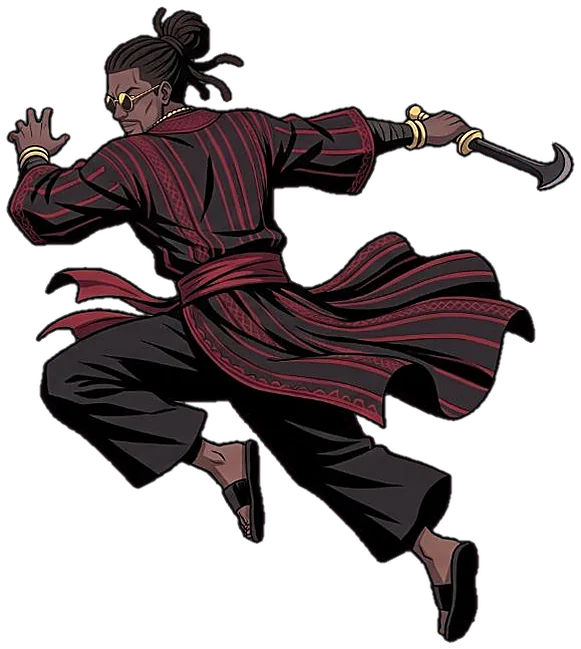
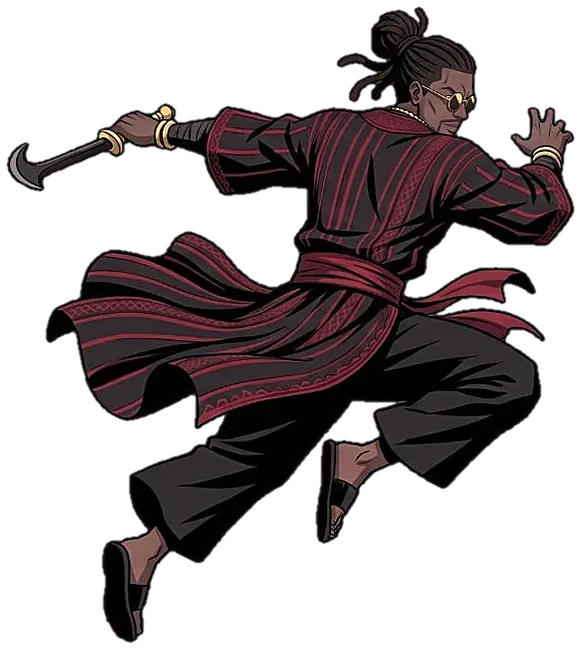
Agyekum: right-facing ult poses, code-tinted crimson slashes, heavier impacts; pose notes on credit budget
Claude-Session: https://claude.ai/code/session_01KCvu1msLSb5oPSxPwoexAA

diff --git a/squads/game.js b/squads/game.js
@@ -1,9 +1,9 @@
 // Gyeaman Squads: Akan squad battler, chapter 1.
 // Battles are turn based on a speed turn order (Dislyte style): every hero picks Basic, Skill (cooldown) or Ultimate (energy)
 // and a target; enemies show their next move. Big moves get impact frames, small ones stay quiet.
-import { KF } from './kf.js?v=20261022d';
-import { HEROES, MONS, STAGES, REGIONS, DIFF, RARITY, STARTERS, SKILL_MAX, skillCost, xpNeed, STAR_SHARDS, LOCKED_CHAPTERS, PULL_COST, PULL10_COST, PITY, PULL_RATES, CLASSES, GROWTH, SPELLS } from './data.js?v=20261022d';
-import { drawAdinkra, adinkraPath, adinkraSvg, ADINKRA } from './adinkra.js?v=20261022d';
+import { KF } from './kf.js?v=20261022e';
+import { HEROES, MONS, STAGES, REGIONS, DIFF, RARITY, STARTERS, SKILL_MAX, skillCost, xpNeed, STAR_SHARDS, LOCKED_CHAPTERS, PULL_COST, PULL10_COST, PITY, PULL_RATES, CLASSES, GROWTH, SPELLS } from './data.js?v=20261022e';
+import { drawAdinkra, adinkraPath, adinkraSvg, ADINKRA } from './adinkra.js?v=20261022e';
 
 const ROOT = /\/squads\/?$|\/squads\/index\.html$/.test(location.pathname) ? '../assets/' : 'assets/';
 const A = ROOT + 'sq/';
@@ -62,7 +62,7 @@ const SFX = {
 
 // ---------------- images ----------------
 const IM = {};
-const AV = '?v=20261022d';
+const AV = '?v=20261022e';
 // stale-build guard: phones keep old pages/modules around; if the deployed version.json is newer, reload once onto it
 (async function checkBuild() {
   const mine = AV.slice(3);
@@ -187,7 +187,7 @@ const SEQ = {
     bayi2: [{ p: 'bA_1', ms: 160, x: 0 }, { p: 'bB_3', ms: 380, x: .05, phantom: 1, ev: 'x' }, { p: 'bB_1', ms: 640, x: 0, ev: 'steal' }, { p: 'idle_0', ms: 120, x: 0 }],
     bayMist: [{ p: 'bA_1', ms: 180, x: 0 }, { p: 'bA_2', ms: 280, x: .05, phantom: 1, ev: 'mist' }, { p: 'bB_1', ms: 620, x: 0, ev: 'sip' }, { p: 'idle_0', ms: 120, x: 0 }],
     bayCurse: [{ p: 'bB_2', ms: 520, x: .03, ev: 'curse' }, { p: 'bB_1', ms: 520, x: 0, ev: 'sip' }, { p: 'idle_0', ms: 120, x: 0 }],
-    ult: [{ p: 'bult_1', ms: 620, x: 0, y: .3, ev: 'rise' }, { p: 'bult_2', ms: 170, x: .04, y: .38, phantom: 1, ev: 's' }, { p: 'bA_3', ms: 170, x: .06, y: .34, phantom: 1, ev: 's' }, { p: 'bult_2', ms: 170, x: .08, y: .38, phantom: 1, ev: 's' }, { p: 'bB_3', ms: 220, x: .1, y: .3, phantom: 1, ev: 's' },
+    ult: [{ p: 'bult_1', ms: 620, x: 0, y: .3, ev: 'rise' }, { p: 'bult_2', ms: 170, x: .04, y: .38, phantom: 1, ev: 's' }, { p: 'bB_3', ms: 170, x: .06, y: .34, phantom: 1, ev: 's' }, { p: 'bult_2', ms: 170, x: .08, y: .38, phantom: 1, ev: 's' }, { p: 'bB_3', ms: 220, x: .1, y: .3, phantom: 1, ev: 's' },
       { p: 'idle_3', ms: 200, x: .72, y: 0, phantom: 1, lines: 1 }, { p: 'bult_3', ms: 460, x: .82, ev: 'feast' }, { p: 'bB_1', ms: 900, x: .82, ev: 'drink' }],
   },
 
@@ -215,6 +215,12 @@ const PH_HUE = { sekan: 45, bayi: 350, kome: 40, owureku: 5, blay: 185, kuukua: 
 const SOFT_HURT = new Set(['gyakari', 'afrakoma']);
 const PH_COL = { kome: '#ffd23c', owureku: '#d0402a', sekan: '#efe6cf', bayi: '#d01c3c', blay: '#3d7cff', kuukua: '#ff1f35', obiri: '#ffc83c', gyakari: '#ffb02e', afrakoma: '#ff6a1f', dufie: '#b070ff' }; // afterimage tint per hero
 const TINT = document.createElement('canvas'), TG = TINT.getContext('2d');
+const TINTS = new Map();
+function tintImg(el, col) { // recolour an image keeping its light/dark structure and alpha (blue-black slash -> crimson-black)
+  const key = el.src + col; let c = TINTS.get(key); if (c) return c;
+  c = document.createElement('canvas'); c.width = el.naturalWidth; c.height = el.naturalHeight; const t = c.getContext('2d');
+  t.drawImage(el, 0, 0); t.globalCompositeOperation = 'color'; t.fillStyle = col; t.fillRect(0, 0, c.width, c.height);
+  t.globalCompositeOperation = 'destination-in'; t.drawImage(el, 0, 0); TINTS.set(key, c); return c; }
 function drawTinted(g, q, col, alpha) { // the pose as a flat silhouette in the hero colour, with a light inner core
   const bh = q.bh || q.u.h, S = Math.ceil(bh * 2.4); if (TINT.width !== S) { TINT.width = S; TINT.height = S; }
   TG.setTransform(1, 0, 0, 1, 0, 0); TG.clearRect(0, 0, S, S); TG.save(); TG.translate(S / 2, S * .78); if (q.rot) { TG.translate(0, -bh * .5); TG.rotate(q.rot); TG.translate(0, bh * .5); } drawKF(TG, q.u.id, q.p, bh); TG.restore();
@@ -423,30 +429,31 @@ CHOREO.sekan = {
       if (e === 'slam') { debris(x, y, 16, u.h * .14); shock(u, f, SEK, 1); slam(u, f, SEK, 1); if (f.alive) { hit(u, f, 1.6 * m, { color: SEK, big: 1 }); addSt(f, 'stun', 1); } } });
     await heavyRecover(u, f); },
 };
-const redSlash = (u, f, o = {}) => { const [hx, hy] = pos(u), [x] = pos(f), [ox] = kfOff(u); fx('sproj', o.ms || 520, { k: o.k ?? ((Math.random() * 4) | 0), x0: hx + ox + u.h * .45, x1: x + f.w * .2, y: hy - u.h * (o.yy ?? .55), s: u.h * (o.s ?? .75), hue: 140, glow: '#ff1f45', glow2: '#ffc0c8', flip: o.flip, rot: o.rot }); };
+const redSlash = (u, f, o = {}) => { const [hx, hy] = pos(u), [x] = pos(f), [ox] = kfOff(u); fx('sproj', o.ms || 520, { k: o.k ?? ((Math.random() * 4) | 0), x0: hx + ox + u.h * .45, x1: x + f.w * .2, y: hy - u.h * (o.yy ?? .55), s: u.h * (o.s ?? 1.0), tint: '#ff1030', glow: '#ff1f45', glow2: '#ff8090', flip: o.flip, rot: o.rot }); };
+const bayImpact = (u, f, big) => { const [x, y] = pos(f); hitStop(big ? 170 : 85); B.shake = big ? 22 : 11; fx('flash', big ? 560 : 360, { x, y: y - f.h * .5, r: f.h * (big ? 1.5 : .9), c: BLD, n: 12 }); debris(x, y, big ? 18 : 7, u.h * .12); if (big) shock(u, f, BLD, 1); };
 const goop = (u, f, n = 12, sz = 1) => { const [hx, hy] = pos(u), [ox, oy] = kfOff(u), [x, y] = pos(f); fx('goop', 1000, { x0: x, y0: y - f.h * .5, x1: hx + ox, y1: hy - oy - u.h * .55, r: u.h * .032 * sz, arc: u.h * .55, c: '#a00d2a', n }); };
 CHOREO.bayi = {
   basic: async (u, f, m, o) => { let d = 0; await runKF(u, f, SEQ.bayi.basic, async (e) => { const [x, y] = pos(f);
-      if (e === 's1' || e === 's2') { redSlash(u, f, { flip: e === 's2', rot: e === 's1' ? .35 : 0 }); await wait(260); if (f.alive) { fx('arc', 280, { x, y: y - f.h * .55, r: f.h * .6, c: BLD, dir: e === 's1' ? -1 : 1 }); slam(u, f, BLD, 0); d += hit(u, f, .5 * m, { ...o, color: BLD }); } }
+      if (e === 's1' || e === 's2') { redSlash(u, f, { flip: e === 's2', rot: e === 's1' ? .35 : 0, s: e === 's2' ? 1.25 : 1 }); await wait(230); if (f.alive) { fx('arc', 280, { x, y: y - f.h * .55, r: f.h * .75, c: BLD, dir: e === 's1' ? -1 : 1, big: 1 }); bayImpact(u, f, e === 's2'); d += hit(u, f, .5 * m, { ...o, color: BLD }); } }
       if (e === 'sip' && d) { goop(u, f, 6, .8); await wait(500); heal(u, d * .25, 1); } });
     kfEnd(u); return d; },
   bayi1: async (u, f, m) => { let d = 0; await runKF(u, f, SEQ.bayi.bayi1, async (e) => { const [x, y] = pos(f);
-      if (e === 'grab' && f.alive) { fx('smoke', 700, { x, y: y - f.h * .3, r: f.h * .4, c: BLD, n: 10, rise: 1 }); d = hit(u, f, 1.0 * m, { color: BLD }); goop(u, f, 22, 1.3); }
-      if (e === 'drink') { await wait(450); const [hx, hy] = pos(u); fx('star', 520, { x: hx, y: hy - u.h * .55, r: u.h * .5, c: BLD }); heal(u, d); } }); kfEnd(u); },
+      if (e === 'grab' && f.alive) { fx('smoke', 700, { x, y: y - f.h * .3, r: f.h * .4, c: BLD, n: 10, rise: 1 }); bayImpact(u, f, 1); d = hit(u, f, 1.0 * m, { color: BLD, big: 1 }); goop(u, f, 28, 1.5); }
+      if (e === 'drink') { await wait(450); const [hx, hy] = pos(u); fx('star', 520, { x: hx, y: hy - u.h * .55, r: u.h * .7, c: BLD }); fx('ward', 700, { unit: u, c: BLD }); B.shake = 8; heal(u, d); } }); kfEnd(u); },
   bayi2: async (u, f, m) => { await runKF(u, f, SEQ.bayi.bayi2, async (e) => { const [x, y] = pos(f);
-      if (e === 'x') { redSlash(u, f, { rot: .5 }); redSlash(u, f, { rot: -.5, flip: 1 }); await wait(260); if (f.alive) { fx('x', 420, { unit: f, c: BLD }); hit(u, f, .4 * m, { color: BLD }); } }
+      if (e === 'x') { redSlash(u, f, { rot: .5 }); redSlash(u, f, { rot: -.5, flip: 1 }); await wait(230); if (f.alive) { fx('x', 420, { unit: f, c: BLD }); bayImpact(u, f, 0); hit(u, f, .4 * m, { color: BLD }); } }
       if (e === 'steal' && f.alive) { goop(u, f, 14); pushTM(f, -.35); pushTM(u, .35); float(f, 'TURN −35%', '#c58bff', .8); float(u, 'TURN +35%', '#7ee08a', .8); } }); kfEnd(u); },
   bayMist: async (u, f, m) => { await runKF(u, f, SEQ.bayi.bayMist, async (e) => { const [x, y] = pos(f);
-      if (e === 'mist') { redSlash(u, f, { s: .9 }); await wait(260); if (f.alive) { fx('smoke', 1300, { x, y, r: f.h * .75, c: BLD, n: 20, rise: 1 }); hit(u, f, .6 * m, { color: BLD }); addSt(f, 'burn', 3, { burnPow: u.atk * .5 * m }); } }
+      if (e === 'mist') { redSlash(u, f, { s: 1.2 }); await wait(230); if (f.alive) { bayImpact(u, f, 0); fx('smoke', 1300, { x, y, r: f.h * .75, c: BLD, n: 20, rise: 1 }); hit(u, f, .6 * m, { color: BLD }); addSt(f, 'burn', 3, { burnPow: u.atk * .5 * m }); } }
       if (e === 'sip') { goop(u, f, 10); await wait(450); heal(u, u.max * .08); } }); kfEnd(u); },
   bayCurse: async (u, f, m) => { await runKF(u, f, SEQ.bayi.bayCurse, async (e) => {
-      if (e === 'curse' && f.alive) { fx('x', 520, { unit: f, c: BLD }); fx('flash', 420, { x: pos(f)[0], y: pos(f)[1] - f.h * .5, r: f.h * .7, c: BLD }); hit(u, f, .5 * m, { color: BLD }); addSt(f, 'defDown', 2); float(f, 'DEF▼', '#ff5a4a', .8); }
+      if (e === 'curse' && f.alive) { fx('x', 520, { unit: f, c: BLD }); bayImpact(u, f, 0); fx('flash', 420, { x: pos(f)[0], y: pos(f)[1] - f.h * .5, r: f.h * .7, c: BLD }); hit(u, f, .5 * m, { color: BLD }); addSt(f, 'defDown', 2); float(f, 'DEF▼', '#ff5a4a', .8); }
       if (e === 'sip') { goop(u, f, 8); addSt(u, 'atkUp', 3); u.atkUpK = 1.2; float(u, 'ATK▲', '#ffb070', .8); } }); kfEnd(u); },
   ult: async (u, f, m, T) => { let d = 0; await runKF(u, f, SEQ.bayi.ult, async (e) => { const [x, y] = pos(f), [hx, hy] = pos(u);
       if (e === 'rise') { fx('smoke', 900, { x: hx, y: hy, r: u.h * .6, c: BLD, n: 16, rise: 1 }); B.shake = 6; }
-      if (e === 's') { redSlash(u, f, { ms: 420, yy: .7 + Math.random() * .2, flip: Math.random() < .5, rot: rnd(-.4, .4) }); await wait(200); if (f.alive) { fx('arc', 220, { x, y: y - f.h * (.4 + .3 * Math.random()), r: f.h * .55, c: BLD, dir: Math.random() < .5 ? 1 : -1 }); d += hit(u, f, .3 * m, { color: BLD }); goop(u, f, 5, .8); } }
-      if (e === 'feast') { await impactFrames(T, u); slam(u, f, BLD, 1); fx('flash', 520, { x, y: y - f.h * .5, r: f.h, c: BLD }); if (f.alive) d += hit(u, f, 1.6 * m, { color: BLD, big: 1 }); }
-      if (e === 'drink') { goop(u, f, 30, 1.5); await wait(600); fx('star', 600, { x: hx, y: hy - u.h * .55, r: u.h * .6, c: BLD }); heal(u, d); } });
+      if (e === 's') { redSlash(u, f, { ms: 400, yy: .75 + Math.random() * .2, s: 1.15, flip: Math.random() < .5, rot: rnd(-.5, .1) }); await wait(190); if (f.alive) { bayImpact(u, f, 0); fx('arc', 220, { x, y: y - f.h * (.4 + .3 * Math.random()), r: f.h * .55, c: BLD, dir: Math.random() < .5 ? 1 : -1 }); d += hit(u, f, .3 * m, { color: BLD }); goop(u, f, 5, .8); } }
+      if (e === 'feast') { await impactFrames(T, u); bayImpact(u, f, 1); slam(u, f, BLD, 1); redSlash(u, f, { s: 1.6, ms: 360 }); if (f.alive) d += hit(u, f, 1.6 * m, { color: BLD, big: 1 }); }
+      if (e === 'drink') { goop(u, f, 40, 1.7); await wait(600); fx('star', 600, { x: hx, y: hy - u.h * .55, r: u.h * .9, c: BLD }); fx('ward', 900, { unit: u, c: BLD }); fx('smoke', 900, { x: hx, y: hy, r: u.h * .6, c: BLD, n: 14, rise: 1 }); B.shake = 12; heal(u, d); } });
     await heavyRecover(u, f); },
 };
 // draw one clip frame with feet at (0,0) and body height bodyH
@@ -1360,8 +1367,8 @@ function drawFx(g, f) {
       g.globalCompositeOperation = 'source-over'; break; }
     case 'sproj': { const im = img(A + 'kf/' + (f.src || 'blay_fx_' + f.k) + '.webp' + AV); if (!im.ok) break; const e = p < .5 ? p * 1.25 : .625 + (p - .5) * .75, x = f.x0 + (f.x1 - f.x0) * Math.min(1, e), h = f.s * (.7 + .5 * Math.min(1, p * 1.4)), w = h * im.el.naturalWidth / im.el.naturalHeight;
       g.translate(x, f.y); if (f.mir) g.scale(-1, 1); g.rotate((f.rot || 0) + (f.spin ? p * f.spin : 0)); if (f.hue) g.filter = `hue-rotate(${f.hue}deg) saturate(1.4)`; if (f.flip) g.scale(1, -1); const al = p < .78 ? 1 : 1 - (p - .78) / .22, X = -w * .75, Y = -h / 2;
-      g.globalAlpha = al; g.shadowColor = f.glow || '#4f8dff'; g.shadowBlur = Math.max(18, h * .28); g.drawImage(im.el, X, Y, w, h); g.shadowBlur = Math.max(8, h * .1); g.shadowColor = f.glow2 || '#bfd6ff'; g.drawImage(im.el, X, Y, w, h);
-      g.shadowBlur = 0; g.globalCompositeOperation = 'lighter'; g.globalAlpha = al * .55; g.drawImage(im.el, X, Y, w, h); g.globalCompositeOperation = 'source-over'; break; }
+      const SRC = f.tint ? tintImg(im.el, f.tint) : im.el; g.globalAlpha = al; g.shadowColor = f.glow || '#4f8dff'; g.shadowBlur = Math.max(18, h * .28); g.drawImage(SRC, X, Y, w, h); g.shadowBlur = Math.max(8, h * .1); g.shadowColor = f.glow2 || '#bfd6ff'; g.drawImage(SRC, X, Y, w, h);
+      g.shadowBlur = 0; g.globalCompositeOperation = 'lighter'; g.globalAlpha = al * .55; g.drawImage(SRC, X, Y, w, h); g.globalCompositeOperation = 'source-over'; break; }
     case 'arrowP': { const im = img(A + 'kf/fx_arrow.webp' + AV); if (im.ok) { const e = Math.min(1, p / (f.hitAt || .55)), x = f.x0 + (f.x1 - f.x0) * e, y = f.y0 + (f.y1 - f.y0) * e - Math.sin(e * Math.PI) * (f.arc || 0), a = Math.atan2(f.y1 - f.y0, f.x1 - f.x0), al = e < 1 ? 1 : Math.max(0, 1 - (p - (f.hitAt || .55)) * 4);
         if (al <= 0) break; const h = (f.len || 46) * .9 * Math.sqrt((f.w || 3) / 3), w = h * im.el.naturalWidth / im.el.naturalHeight * 1.25; g.globalAlpha = al; g.translate(x, y); g.rotate(a); g.shadowColor = f.c || GOLD; g.shadowBlur = 16; g.drawImage(im.el, -w * .85, -h / 2, w, h); g.globalCompositeOperation = 'lighter'; g.globalAlpha = al * .4; g.drawImage(im.el, -w * .85, -h / 2, w, h); g.globalCompositeOperation = 'source-over'; break; } }
     case 'arrowP_code': { // code-drawn fallback: straight or falling (rain), with a light trail

diff --git a/squads/kf.js b/squads/kf.js
@@ -9,5 +9,5 @@ export const KF = {
   kome: { ref: 648, p: {"idle_0":["kome_t0_0.webp",846,654,421,648],"idle_1":["kome_t0_1.webp",611,591,304,586],"idle_2":["kome_t1_1.webp",716,572,356,568],"idle_3":["kome_t2_1.webp",632,632,316,625],"kA_1":["kome_t3_1.webp",620,659,310,650],"kA_2":["kome_t4_1.webp",649,638,323,636],"kA_3":["kome_t5_1.webp",572,623,285,616],"kB_1":["kome_t6_1.webp",433,640,215,632],"kB_2":["kome_t7_1.webp",634,642,316,630],"kB_3":["kome_t8_1.webp",468,646,233,634],"qult_1":["kome_t9_1.webp",633,653,317,645],"qult_2":["kome_t10_1.webp",677,567,338,559],"qult_3":["kome_t11_1.webp",640,620,320,614]} },
   owureku: { ref: 646, p: {"idle_0":["owureku_t0_0.webp",831,652,415,646],"idle_1":["owureku_t0_1.webp",725,654,361,657],"idle_2":["owureku_t1_1.webp",703,545,351,535],"idle_3":["owureku_t2_1.webp",587,614,293,616],"wA_1":["owureku_t3_1.webp",547,733,273,713],"wA_2":["owureku_t4_1.webp",723,564,361,559],"wA_3":["owureku_t5_1.webp",760,585,380,583],"wB_1":["owureku_t6_1.webp",667,662,333,642],"wB_2":["owureku_t7_1.webp",744,620,372,616],"wB_3":["owureku_t8_1.webp",780,646,390,640],"wult_1":["owureku_t9_1.webp",797,638,397,633],"wult_2":["owureku_t10_1.webp",522,688,262,667],"wult_3":["owureku_t11_1.webp",697,575,348,563]} },
   sekan: { ref: 646, p: {"idle_0":["sekan_t0_0.webp",499,652,249,646],"idle_1":["sekan_t0_1.webp",493,650,247,645],"idle_2":["sekan_t1_1.webp",544,552,271,536],"idle_3":["sekan_t2_1.webp",603,625,301,623],"nA_1":["sekan_t3_1.webp",538,652,270,645],"nA_2":["sekan_t4_1.webp",553,649,277,641],"nA_3":["sekan_t5_1.webp",677,651,339,644],"nB_1":["sekan_t6_1.webp",469,649,233,646],"nB_2":["sekan_t7_1.webp",701,492,350,602],"nB_3":["sekan_t8_1.webp",409,655,204,647],"nult_1":["sekan_t9_1.webp",505,666,252,658],"nult_2":["sekan_t10_1.webp",477,672,238,664],"nult_3":["sekan_t11_1.webp",681,585,340,586]} },
-  bayi: { ref: 647, p: {"idle_0":["bayi_t0_0.webp",567,653,282,647],"idle_1":["bayi_t0_1.webp",544,653,272,640],"idle_2":["bayi_t1_1.webp",565,601,281,594],"idle_3":["bayi_t2_1.webp",615,569,306,565],"bA_1":["bayi_t3_1.webp",539,662,271,651],"bA_2":["bayi_t4_1.webp",761,612,381,611],"bA_3":["bayi_t5_1.webp",601,652,300,637],"bB_1":["bayi_t6_1.webp",546,659,273,641],"bB_2":["bayi_t7_1.webp",566,656,284,643],"bB_3":["bayi_t8_1.webp",644,655,323,640],"bult_1":["bayi_t9_1.webp",687,609,343,650],"bult_2":["bayi_t10_1.webp",581,649,289,641],"bult_3":["bayi_t11_1.webp",770,645,385,636]} },
+  bayi: { ref: 647, p: {"idle_0":["bayi_t0_0.webp",567,653,282,647],"idle_1":["bayi_t0_1.webp",544,653,272,640],"idle_2":["bayi_t1_1.webp",565,601,281,594],"idle_3":["bayi_t2_1.webp",615,569,306,565],"bA_1":["bayi_t3_1.webp",539,662,271,651],"bA_2":["bayi_t4_1.webp",761,612,381,611],"bA_3":["bayi_t5_1.webp",601,652,300,637],"bB_1":["bayi_t6_1.webp",546,659,273,641],"bB_2":["bayi_t7_1.webp",566,656,284,643],"bB_3":["bayi_t8_1.webp",644,655,323,640],"bult_1":["bayi_t9_1.webp",687,609,344,650],"bult_2":["bayi_t10_1.webp",581,649,292,641],"bult_3":["bayi_t11_1.webp",770,645,385,636]} },
 };

diff --git a/squads/index.html b/squads/index.html
@@ -14,10 +14,10 @@
 <link rel="preconnect" href="https://fonts.googleapis.com">
 <link rel="preconnect" href="https://fonts.gstatic.com" crossorigin>
 <link href="https://fonts.googleapis.com/css2?family=Anton&family=Bangers&family=Karla:wght@400;700;800&display=swap" rel="stylesheet">
-<link rel="stylesheet" href="style.css?v=20261022d">
+<link rel="stylesheet" href="style.css?v=20261022e">
 </head>
 <body>
 <div id="app"></div>
-<script type="module" src="game.js?v=20261022d"></script>
+<script type="module" src="game.js?v=20261022e"></script>
 </body>
 </html>

diff --git a/docs/pose-prompts.md b/docs/pose-prompts.md
@@ -28,3 +28,10 @@ Lessons from Dufie and Blay. Read before writing any hero's sheets.
 - Slash projectiles: separate keyed images, full size from the blade tip, growing a little, strong double glow, slow enough to read.
 - Phantom trail: blue tinted afterimages dropped every ~18 ms, ~1.6 s life.
 - Shunpo: anticipation pose, vanish with smear, reappear sliding (snap step).
+
+## Credit budget (important)
+- Never one pose per sheet: it costs 4x. Use the 4-figure sheet (idle anchor + 3 move poses) or 3 move poses, about 20 credits per sheet.
+- Prevent touching with layout words, not fewer figures: "four equal columns, each figure fully inside its own column with a wide empty gap of plain green between columns; weapons and cloth stay inside the column".
+- Validate every sheet with check2.py-style component separation before extracting; regenerate only the failing sheet.
+- Extract by connected components, never by column cuts (column cuts slice limbs).
+- Left-facing poses are fixed by mirroring in code, not by regenerating.
